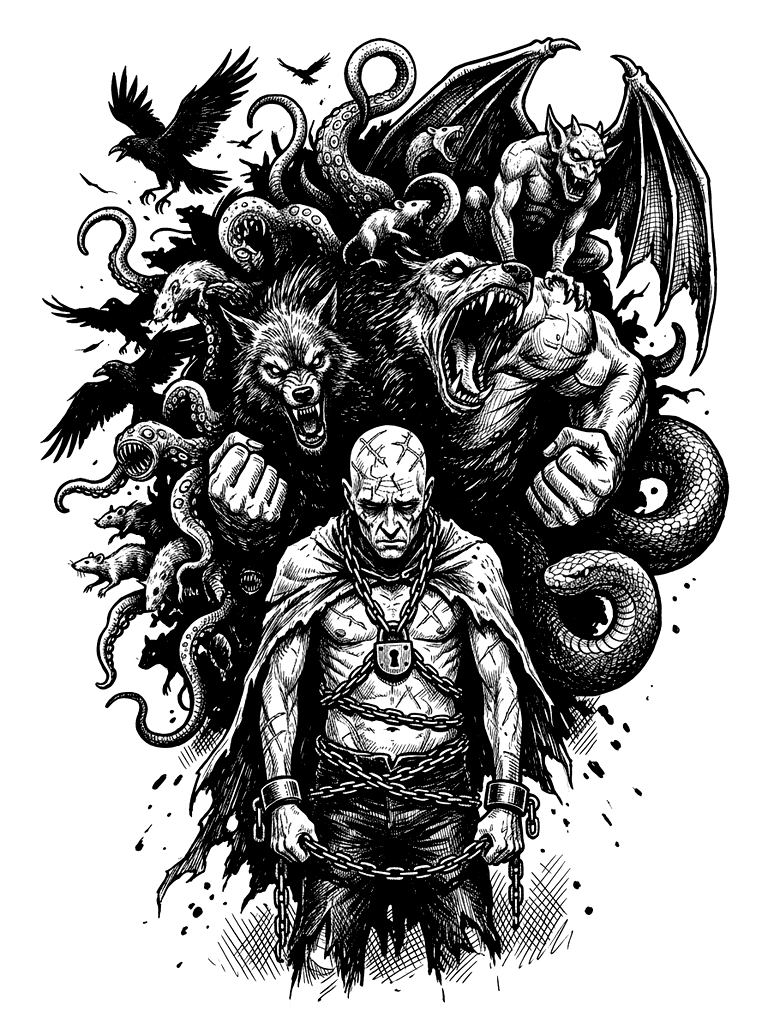
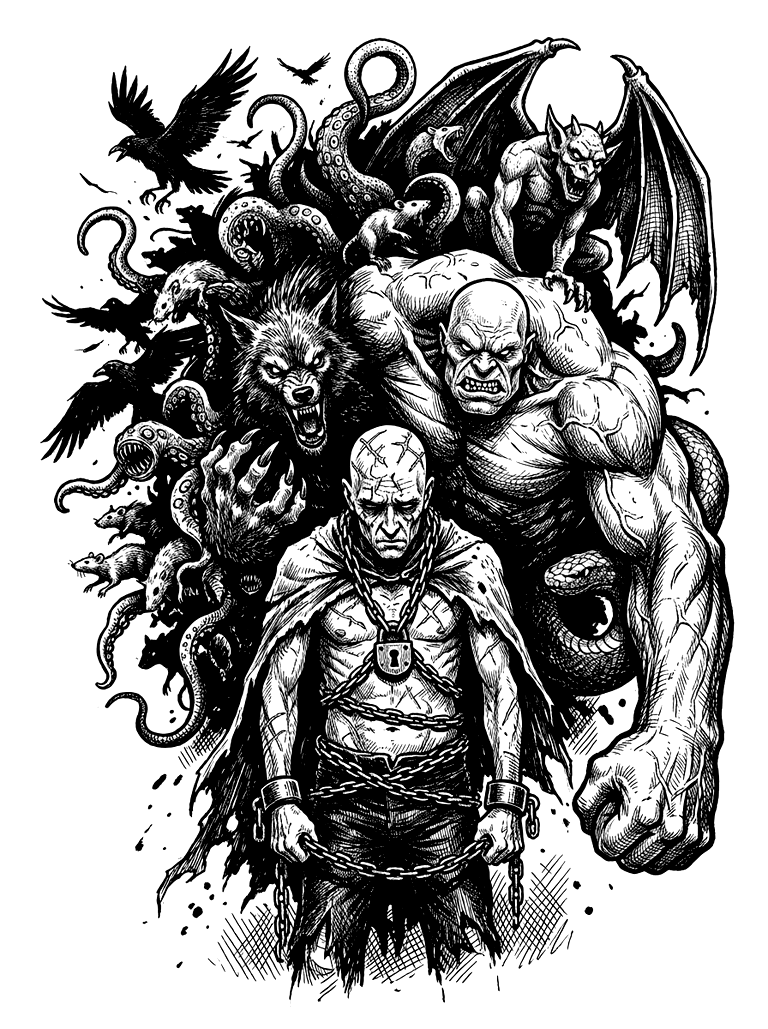
Metamorfo: arte corrigida (brutamontes e garra do lobisomem)

diff --git a/docs/classes/metamorfo.md b/docs/classes/metamorfo.md
@@ -3,7 +3,7 @@
 Gente com outra coisa por baixo da pele: um lobo, uma besta, um enxame, algo sem nome. Quando a pele rasga, eles aguentam o que ninguém aguenta. O preço é que a coisa de baixo quer ficar, e cada rodada transformado é uma rodada a menos de controle.
 { .epigrafe }
 
-![Homem de cabeça raspada e cheia de cicatrizes, preso em correntes com um cadeado no peito; atrás dele, saindo da sua sombra, as formas: lobo, besta, tentáculos com bocas, corvos e ratos, serpente e gárgula](../assets/images/classes/metamorfo.webp){ .fj-arte .fj-arte-classe loading=lazy }
+![Homem de cabeça raspada e cheia de cicatrizes, preso em correntes com um cadeado no peito; atrás dele, saindo da sua sombra, as formas: lobisomem de garras abertas, um brutamontes de punho fechado, tentáculos com bocas, corvos e ratos, serpente e gárgula](../assets/images/classes/metamorfo.webp){ .fj-arte .fj-arte-classe loading=lazy }
 
 **Classe exótica.** Fica fora do Personagem Aleatório. Combine com o Mestre antes de escolher (veja Classes exóticas).
 
